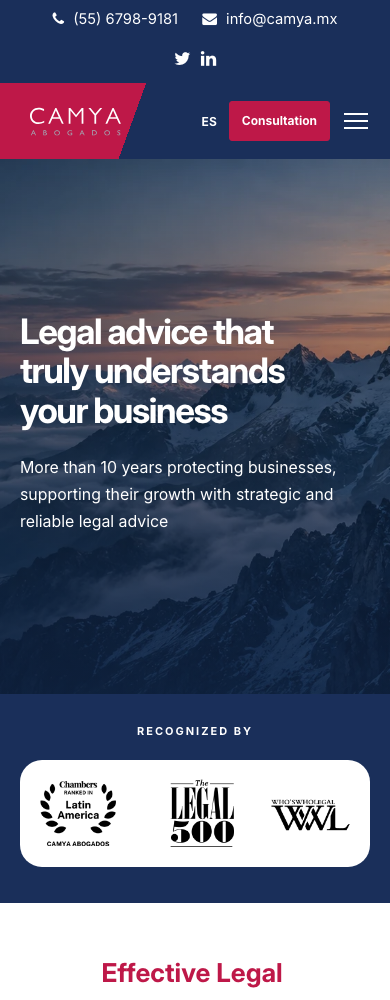
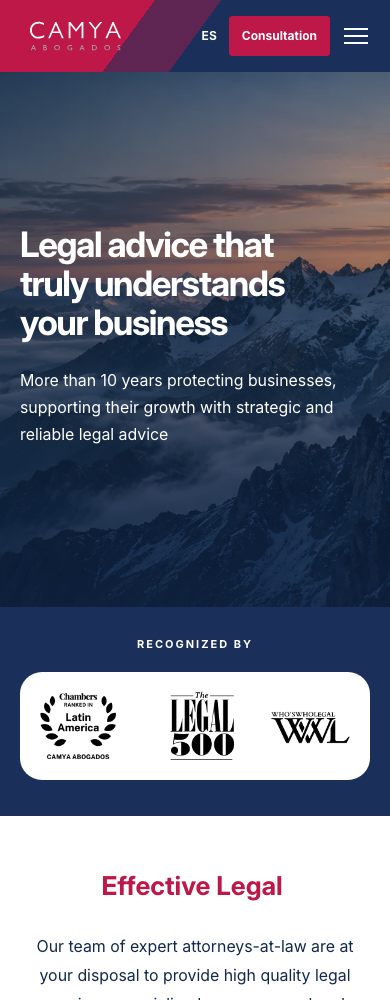
Align homepage header with client reference

diff --git a/dist/home.css b/dist/home.css
@@ -27,32 +27,41 @@ body.camya-home-refresh {
   top: 0;
   z-index: 100;
   width: 100%;
-  background: linear-gradient(110deg, #BE1848 35%, #1A2F5A 35%);
+  background: linear-gradient(126deg, #BE1848 35%, #1A2F5A 35%);
   color: #fff;
 }
+.camya-header::before {
+  content: '';
+  position: absolute;
+  inset: 0;
+  background: linear-gradient(126deg, transparent 35%, rgba(190,24,72,0.42) 35%, rgba(190,24,72,0.42) 50%, transparent 50%);
+  pointer-events: none;
+}
 .camya-header-inner {
-  width: min(1280px, calc(100% - 64px));
-  min-height: 96px;
+  position: relative;
+  width: min(1240px, calc(100% - 96px));
+  min-height: 88px;
   margin-inline: auto;
-  display: flex;
+  display: grid;
+  grid-template-columns: 32% minmax(0, 1fr) auto;
   align-items: center;
   justify-content: space-between;
-  gap: 28px;
+  gap: 20px;
 }
 .camya-brand {display: flex; flex-shrink: 0; align-items: center}
-.camya-brand img {display: block; width: 190px; height: auto}
-.camya-navigation {display: flex; align-items: center; gap: 22px; margin-left: auto}
+.camya-brand img {display: block; width: 205px; height: auto}
+.camya-navigation {display: flex; align-items: center; justify-content: space-between; gap: 16px; margin-left: 0}
 .camya-navigation a, .camya-language {
   color: #fff;
   text-decoration: none;
   font-size: 14px;
-  font-weight: 400;
+  font-weight: 600;
   white-space: nowrap;
 }
 .camya-navigation a {padding-block: 15px}
 .camya-navigation a[aria-current="page"] {text-decoration: underline; text-underline-offset: 8px; text-decoration-thickness: 2px}
 .camya-navigation a:hover, .camya-language:hover {color: #fff; text-decoration: underline; text-underline-offset: 8px}
-.camya-header-actions {display: flex; align-items: center; gap: 20px}
+.camya-header-actions {display: flex; align-items: center; gap: 14px}
 .camya-language {font-weight: 700; padding: 12px 4px}
 .camya-home-refresh .camya-button {
   display: inline-flex;
@@ -70,7 +79,7 @@ body.camya-home-refresh {
   text-decoration: none;
 }
 .camya-home-refresh .camya-button:hover {background: #C2185B; border-color: #C2185B; color: #fff}
-.camya-home-refresh .camya-consult {min-height: 42px; padding: 10px 20px}
+.camya-home-refresh .camya-consult {min-height: 40px; padding: 9px 24px}
 .camya-menu-toggle {display: none}
 .camya-home-refresh a:focus-visible, .camya-home-refresh button:focus-visible {outline: 3px solid #fff; outline-offset: 4px}
 .camya-home-refresh #content a:focus-visible {outline-color: var(--camya-red)}
@@ -133,8 +142,8 @@ body.camya-home-refresh {
 .camya-home-refresh #footer-bottom {background: var(--camya-blue)}
 .camya-home-refresh #contacto, .camya-home-refresh #contactus {scroll-margin-top: 105px}
 
-@media (max-width: 1179px) {
-  .camya-header-inner {min-height: 82px}
+@media (max-width: 1279px) {
+  .camya-header-inner {display: flex; min-height: 76px}
   .camya-brand img {width: 172px}
   .camya-navigation {
     display: none;
@@ -142,7 +151,7 @@ body.camya-home-refresh {
     top: 100%;
     left: 0;
     right: 0;
-    max-height: calc(100svh - 82px);
+    max-height: calc(100svh - 76px);
     overflow-y: auto;
     padding: 16px 32px 24px;
     margin: 0;
@@ -159,13 +168,13 @@ body.camya-home-refresh {
 }
 @media (max-width: 600px) {
   .camya-home-container {width: calc(100% - 40px)}
-  .camya-header-inner {width: calc(100% - 32px); min-height: 76px; gap: 12px}
+  .camya-header-inner {width: calc(100% - 32px); min-height: 72px; gap: 12px}
   .camya-brand img {width: 120px}
   .camya-header-actions {gap: 8px}
   .camya-language {font-size: 12px; padding-inline: 4px}
   .camya-home-refresh .camya-consult {font-size: 12px; padding: 9px 12px; min-height: 40px}
   .camya-menu-toggle {min-width: 36px; padding-inline: 6px}
-  .camya-navigation {padding-inline: 20px}
+  .camya-navigation {padding-inline: 20px; max-height: calc(100svh - 72px)}
   .camya-hero {min-height: 535px}
   .camya-hero-image {object-position: 60% center}
   .camya-hero-content {padding-block: 58px 64px}

diff --git a/dist/en/home/index.html b/dist/en/home/index.html
@@ -94,11 +94,7 @@
 <span data-ls_id="#site_top" tabindex="-1"></span>
 <div class="wpex-overflow-clip" id="outer-wrap">
 <div class="wpex-clr" id="wrap">
-<div class="wpex-text-sm wpex-print-hidden" id="top-bar-wrap">
-<div class="container wpex-relative wpex-py-15 wpex-md-flex wpex-justify-between wpex-items-center wpex-text-center wpex-md-text-initial" id="top-bar">
-<div class="has-content top-bar-left wpex-clr" id="top-bar-content"><span aria-hidden="true" class="ticon ticon-phone" style="margin-right:5px;"></span> (55) 6798-9181   <span aria-hidden="true" class="ticon ticon-envelope" style="margin-left:20px;margin-right:5px;"></span> info@camya.mx</div>
-<div class="top-bar-right wpex-mt-10 wpex-md-mt-0 social-style-none" id="top-bar-social"><ul class="wpex-inline-block wpex-list-none wpex-align-bottom wpex-m-0 wpex-last-mr-0" id="top-bar-social-list"><li class="wpex-inline-block wpex-mr-10"><a class="wpex-twitter wpex-social-btn wpex-social-btn-no-style" href="https://twitter.com/camya_abogados" rel="noopener noreferrer" target="_blank"><span aria-hidden="true" class="ticon ticon-twitter"></span><span class="screen-reader-text">Twitter</span></a></li><li class="wpex-inline-block wpex-mr-10"><a class="wpex-linkedin wpex-social-btn wpex-social-btn-no-style" href="https://www.linkedin.com/company/cu%C3%A9llar-aguilar-morlett-isla-y-abogados-s-c-/" rel="noopener noreferrer" target="_blank"><span aria-hidden="true" class="ticon ticon-linkedin"></span><span class="screen-reader-text">LinkedIn</span></a></li></ul></div></div>
-</div>
+
 <div class="wpex-clr" id="overlay-header-wrap">
 <header class="camya-header" id="site-header">
 <div class="camya-header-inner">
@@ -360,7 +356,11 @@ Consulting and Advice</h2>
 </div>
 </main>
 </div>
-<footer class="site-footer wpex-surface-dark wpex-print-hidden" id="footer">
+<footer class="site-footer wpex-surface-dark wpex-print-hidden" id="footer"><div class="wpex-text-sm wpex-print-hidden" id="top-bar-wrap">
+<div class="container wpex-relative wpex-py-15 wpex-md-flex wpex-justify-between wpex-items-center wpex-text-center wpex-md-text-initial" id="top-bar">
+<div class="has-content top-bar-left wpex-clr" id="top-bar-content"><span aria-hidden="true" class="ticon ticon-phone" style="margin-right:5px;"></span> (55) 6798-9181   <span aria-hidden="true" class="ticon ticon-envelope" style="margin-left:20px;margin-right:5px;"></span> info@camya.mx</div>
+<div class="top-bar-right wpex-mt-10 wpex-md-mt-0 social-style-none" id="top-bar-social"><ul class="wpex-inline-block wpex-list-none wpex-align-bottom wpex-m-0 wpex-last-mr-0" id="top-bar-social-list"><li class="wpex-inline-block wpex-mr-10"><a class="wpex-twitter wpex-social-btn wpex-social-btn-no-style" href="https://twitter.com/camya_abogados" rel="noopener noreferrer" target="_blank"><span aria-hidden="true" class="ticon ticon-twitter"></span><span class="screen-reader-text">Twitter</span></a></li><li class="wpex-inline-block wpex-mr-10"><a class="wpex-linkedin wpex-social-btn wpex-social-btn-no-style" href="https://www.linkedin.com/company/cu%C3%A9llar-aguilar-morlett-isla-y-abogados-s-c-/" rel="noopener noreferrer" target="_blank"><span aria-hidden="true" class="ticon ticon-linkedin"></span><span class="screen-reader-text">LinkedIn</span></a></li></ul></div></div>
+</div>
 <div class="site-footer-inner container wpex-pt-40 wpex-clr" id="footer-inner">
 <div class="wpex-row wpex-clr single-col-footer" id="footer-widgets">
 <div class="footer-box span_1_of_1 col col-1"><div class="footer-widget widget wpex-pb-40 wpex-clr widget_text" id="text-4"> <div class="textwidget"><p align="center"><a href="/wp-content/uploads/2024/01/logoblanco-10.svg"><img alt="" class="alignnone size-medium wp-image-2633" decoding="async" height="300" loading="lazy" role="img" src="/wp-content/uploads/2024/01/logoblanco-10.svg" width="300"/></a></p>

diff --git a/dist/en/index.html b/dist/en/index.html
@@ -94,11 +94,7 @@
 <span data-ls_id="#site_top" tabindex="-1"></span>
 <div class="wpex-overflow-clip" id="outer-wrap">
 <div class="wpex-clr" id="wrap">
-<div class="wpex-text-sm wpex-print-hidden" id="top-bar-wrap">
-<div class="container wpex-relative wpex-py-15 wpex-md-flex wpex-justify-between wpex-items-center wpex-text-center wpex-md-text-initial" id="top-bar">
-<div class="has-content top-bar-left wpex-clr" id="top-bar-content"><span aria-hidden="true" class="ticon ticon-phone" style="margin-right:5px;"></span> (55) 6798-9181   <span aria-hidden="true" class="ticon ticon-envelope" style="margin-left:20px;margin-right:5px;"></span> info@camya.mx</div>
-<div class="top-bar-right wpex-mt-10 wpex-md-mt-0 social-style-none" id="top-bar-social"><ul class="wpex-inline-block wpex-list-none wpex-align-bottom wpex-m-0 wpex-last-mr-0" id="top-bar-social-list"><li class="wpex-inline-block wpex-mr-10"><a class="wpex-twitter wpex-social-btn wpex-social-btn-no-style" href="https://twitter.com/camya_abogados" rel="noopener noreferrer" target="_blank"><span aria-hidden="true" class="ticon ticon-twitter"></span><span class="screen-reader-text">Twitter</span></a></li><li class="wpex-inline-block wpex-mr-10"><a class="wpex-linkedin wpex-social-btn wpex-social-btn-no-style" href="https://www.linkedin.com/company/cu%C3%A9llar-aguilar-morlett-isla-y-abogados-s-c-/" rel="noopener noreferrer" target="_blank"><span aria-hidden="true" class="ticon ticon-linkedin"></span><span class="screen-reader-text">LinkedIn</span></a></li></ul></div></div>
-</div>
+
 <div class="wpex-clr" id="overlay-header-wrap">
 <header class="camya-header" id="site-header">
 <div class="camya-header-inner">
@@ -360,7 +356,11 @@ Consulting and Advice</h2>
 </div>
 </main>
 </div>
-<footer class="site-footer wpex-surface-dark wpex-print-hidden" id="footer">
+<footer class="site-footer wpex-surface-dark wpex-print-hidden" id="footer"><div class="wpex-text-sm wpex-print-hidden" id="top-bar-wrap">
+<div class="container wpex-relative wpex-py-15 wpex-md-flex wpex-justify-between wpex-items-center wpex-text-center wpex-md-text-initial" id="top-bar">
+<div class="has-content top-bar-left wpex-clr" id="top-bar-content"><span aria-hidden="true" class="ticon ticon-phone" style="margin-right:5px;"></span> (55) 6798-9181   <span aria-hidden="true" class="ticon ticon-envelope" style="margin-left:20px;margin-right:5px;"></span> info@camya.mx</div>
+<div class="top-bar-right wpex-mt-10 wpex-md-mt-0 social-style-none" id="top-bar-social"><ul class="wpex-inline-block wpex-list-none wpex-align-bottom wpex-m-0 wpex-last-mr-0" id="top-bar-social-list"><li class="wpex-inline-block wpex-mr-10"><a class="wpex-twitter wpex-social-btn wpex-social-btn-no-style" href="https://twitter.com/camya_abogados" rel="noopener noreferrer" target="_blank"><span aria-hidden="true" class="ticon ticon-twitter"></span><span class="screen-reader-text">Twitter</span></a></li><li class="wpex-inline-block wpex-mr-10"><a class="wpex-linkedin wpex-social-btn wpex-social-btn-no-style" href="https://www.linkedin.com/company/cu%C3%A9llar-aguilar-morlett-isla-y-abogados-s-c-/" rel="noopener noreferrer" target="_blank"><span aria-hidden="true" class="ticon ticon-linkedin"></span><span class="screen-reader-text">LinkedIn</span></a></li></ul></div></div>
+</div>
 <div class="site-footer-inner container wpex-pt-40 wpex-clr" id="footer-inner">
 <div class="wpex-row wpex-clr single-col-footer" id="footer-widgets">
 <div class="footer-box span_1_of_1 col col-1"><div class="footer-widget widget wpex-pb-40 wpex-clr widget_text" id="text-4"> <div class="textwidget"><p align="center"><a href="/wp-content/uploads/2024/01/logoblanco-10.svg"><img alt="" class="alignnone size-medium wp-image-2633" decoding="async" height="300" loading="lazy" role="img" src="/wp-content/uploads/2024/01/logoblanco-10.svg" width="300"/></a></p>

diff --git a/dist/index.html b/dist/index.html
@@ -94,11 +94,7 @@
 <span data-ls_id="#site_top" tabindex="-1"></span>
 <div class="wpex-overflow-clip" id="outer-wrap">
 <div class="wpex-clr" id="wrap">
-<div class="wpex-text-sm wpex-print-hidden" id="top-bar-wrap">
-<div class="container wpex-relative wpex-py-15 wpex-md-flex wpex-justify-between wpex-items-center wpex-text-center wpex-md-text-initial" id="top-bar">
-<div class="has-content top-bar-left wpex-clr" id="top-bar-content"><span aria-hidden="true" class="ticon ticon-phone" style="margin-right:5px;"></span> (55) 6798-9181   <span aria-hidden="true" class="ticon ticon-envelope" style="margin-left:20px;margin-right:5px;"></span> info@camya.mx</div>
-<div class="top-bar-right wpex-mt-10 wpex-md-mt-0 social-style-none" id="top-bar-social"><ul class="wpex-inline-block wpex-list-none wpex-align-bottom wpex-m-0 wpex-last-mr-0" id="top-bar-social-list"><li class="wpex-inline-block wpex-mr-10"><a class="wpex-twitter wpex-social-btn wpex-social-btn-no-style" href="https://twitter.com/camya_abogados" rel="noopener noreferrer" target="_blank"><span aria-hidden="true" class="ticon ticon-twitter"></span><span class="screen-reader-text">Twitter</span></a></li><li class="wpex-inline-block wpex-mr-10"><a class="wpex-linkedin wpex-social-btn wpex-social-btn-no-style" href="https://www.linkedin.com/company/cu%C3%A9llar-aguilar-morlett-isla-y-abogados-s-c-/" rel="noopener noreferrer" target="_blank"><span aria-hidden="true" class="ticon ticon-linkedin"></span><span class="screen-reader-text">LinkedIn</span></a></li></ul></div></div>
-</div>
+
 <div class="wpex-clr" id="overlay-header-wrap">
 <header class="camya-header" id="site-header">
 <div class="camya-header-inner">
@@ -365,7 +361,11 @@
 </div>
 </main>
 </div>
-<footer class="site-footer wpex-surface-dark wpex-print-hidden" id="footer">
+<footer class="site-footer wpex-surface-dark wpex-print-hidden" id="footer"><div class="wpex-text-sm wpex-print-hidden" id="top-bar-wrap">
+<div class="container wpex-relative wpex-py-15 wpex-md-flex wpex-justify-between wpex-items-center wpex-text-center wpex-md-text-initial" id="top-bar">
+<div class="has-content top-bar-left wpex-clr" id="top-bar-content"><span aria-hidden="true" class="ticon ticon-phone" style="margin-right:5px;"></span> (55) 6798-9181   <span aria-hidden="true" class="ticon ticon-envelope" style="margin-left:20px;margin-right:5px;"></span> info@camya.mx</div>
+<div class="top-bar-right wpex-mt-10 wpex-md-mt-0 social-style-none" id="top-bar-social"><ul class="wpex-inline-block wpex-list-none wpex-align-bottom wpex-m-0 wpex-last-mr-0" id="top-bar-social-list"><li class="wpex-inline-block wpex-mr-10"><a class="wpex-twitter wpex-social-btn wpex-social-btn-no-style" href="https://twitter.com/camya_abogados" rel="noopener noreferrer" target="_blank"><span aria-hidden="true" class="ticon ticon-twitter"></span><span class="screen-reader-text">Twitter</span></a></li><li class="wpex-inline-block wpex-mr-10"><a class="wpex-linkedin wpex-social-btn wpex-social-btn-no-style" href="https://www.linkedin.com/company/cu%C3%A9llar-aguilar-morlett-isla-y-abogados-s-c-/" rel="noopener noreferrer" target="_blank"><span aria-hidden="true" class="ticon ticon-linkedin"></span><span class="screen-reader-text">LinkedIn</span></a></li></ul></div></div>
+</div>
 <div class="site-footer-inner container wpex-pt-40 wpex-clr" id="footer-inner">
 <div class="wpex-row wpex-clr single-col-footer" id="footer-widgets">
 <div class="footer-box span_1_of_1 col col-1"><div class="footer-widget widget wpex-pb-40 wpex-clr widget_text" id="text-2"> <div class="textwidget"><p align="center"><a href="/wp-content/uploads/2024/01/logoblanco-10.svg"><img alt="" class="alignnone size-medium wp-image-2633" decoding="async" height="300" loading="lazy" role="img" src="/wp-content/uploads/2024/01/logoblanco-10.svg" width="300"/></a></p>

diff --git a/tests/home-refresh.spec.js b/tests/home-refresh.spec.js
@@ -39,7 +39,7 @@ for (const width of [375, 390, 430, 768, 1440]) {
       }));
       expect(geometry.overflow).toBe(false);
       expect(geometry.titleTop).toBeGreaterThan(geometry.headerBottom + 16);
-      expect(geometry.gradient).toBe('linear-gradient(110deg, rgb(190, 24, 72) 35%, rgb(26, 47, 90) 35%)');
+      expect(geometry.gradient).toBe('linear-gradient(126deg, rgb(190, 24, 72) 35%, rgb(26, 47, 90) 35%)');
       expect(geometry.overlay).toContain('rgba(18, 40, 76, 0.7)');
       expect(geometry.font).toContain('Inter');
       expect(geometry.fontWeight).toBe('700');
@@ -59,7 +59,7 @@ for (const width of [375, 390, 430, 768, 1440]) {
       await expect(page.locator('.camya-recognition-capsule svg,.camya-recognition-capsule canvas')).toHaveCount(0);
       await expect(page.locator('footer#footer')).toHaveCount(1);
 
-      if (width < 1180) {
+      if (width < 1280) {
         const toggle = page.locator('.camya-menu-toggle');
         await expect(page.locator('#home-navigation')).toBeHidden();
         await toggle.click();

diff --git a/dist/home.js b/dist/home.js
@@ -24,5 +24,5 @@
   document.addEventListener('click', event => {
     if (!event.target.closest('.camya-header')) close();
   });
-  window.matchMedia('(min-width: 1180px)').addEventListener('change', close);
+  window.matchMedia('(min-width: 1280px)').addEventListener('change', close);
 })();

diff --git a/scripts/refresh-home.py b/scripts/refresh-home.py
@@ -63,6 +63,12 @@ for route in ['/', '/en/', '/en/home/']:
     </header>''').header
     soup.select_one('#site-header').replace_with(header)
 
+    # Keep the original contact details and social links in the existing footer,
+    # so the homepage starts with the single navigation band in the reference.
+    top_bar = soup.select_one('#top-bar-wrap')
+    if top_bar:
+        soup.select_one('footer#footer').insert(0, top_bar.extract())
+
     hero = fragment(f'''
     <section class="camya-hero" aria-labelledby="home-title">
       <img class="camya-hero-image" src="/home-assets/hero-montanas.webp" alt="" width="2043" height="770" fetchpriority="high"/>

diff --git a/verification/HOME_REFRESH_FR.md b/verification/HOME_REFRESH_FR.md
@@ -4,6 +4,8 @@ Cette adaptation part du clone et de sa correction mobile validés (`3d4412f`). 
 
 Le header utilise le dégradé demandé et le logo CAMYA original `wp-content/uploads/2026/10/logoblanco_nvo.svg`. Les textes espagnols du hero sont ceux du brief, avec traduction anglaise fidèle. À la demande du client, les boutons « Nuestros Servicios » et « Conócenos », ainsi que leurs équivalents anglais, ont été retirés du hero. Les pages d'áreas de práctica et de La Firma restent accessibles depuis le menu.
 
+Le bandeau logo/menu est ensuite ajusté à la référence du client : hauteur de 88 px sur ordinateur, 76 px sur tablette et 72 px sur téléphone, diagonale de 126° avec bande de transition bordeaux, logo original et navigation répartie sur la même ligne. La barre de coordonnées et réseaux sociaux d'origine est déplacée dans le footer existant pour commencer directement par le header. Le menu mobile reste accessible sous 1280 px et la version anglaise conserve son accès. Les boutons du hero restent supprimés.
+
 | Menu espagnol | Destination |
 | --- | --- |
 | Inicio | `/` |
